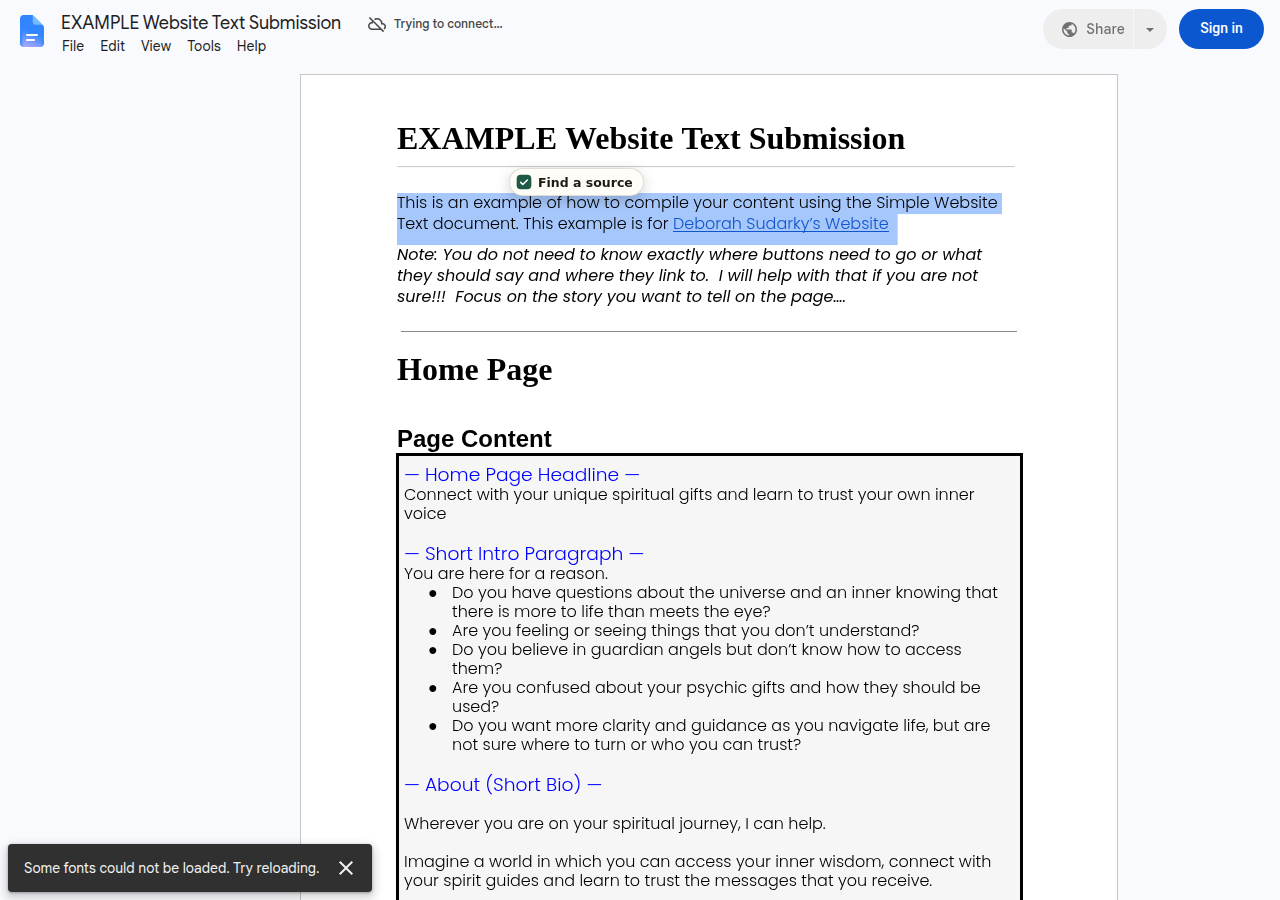
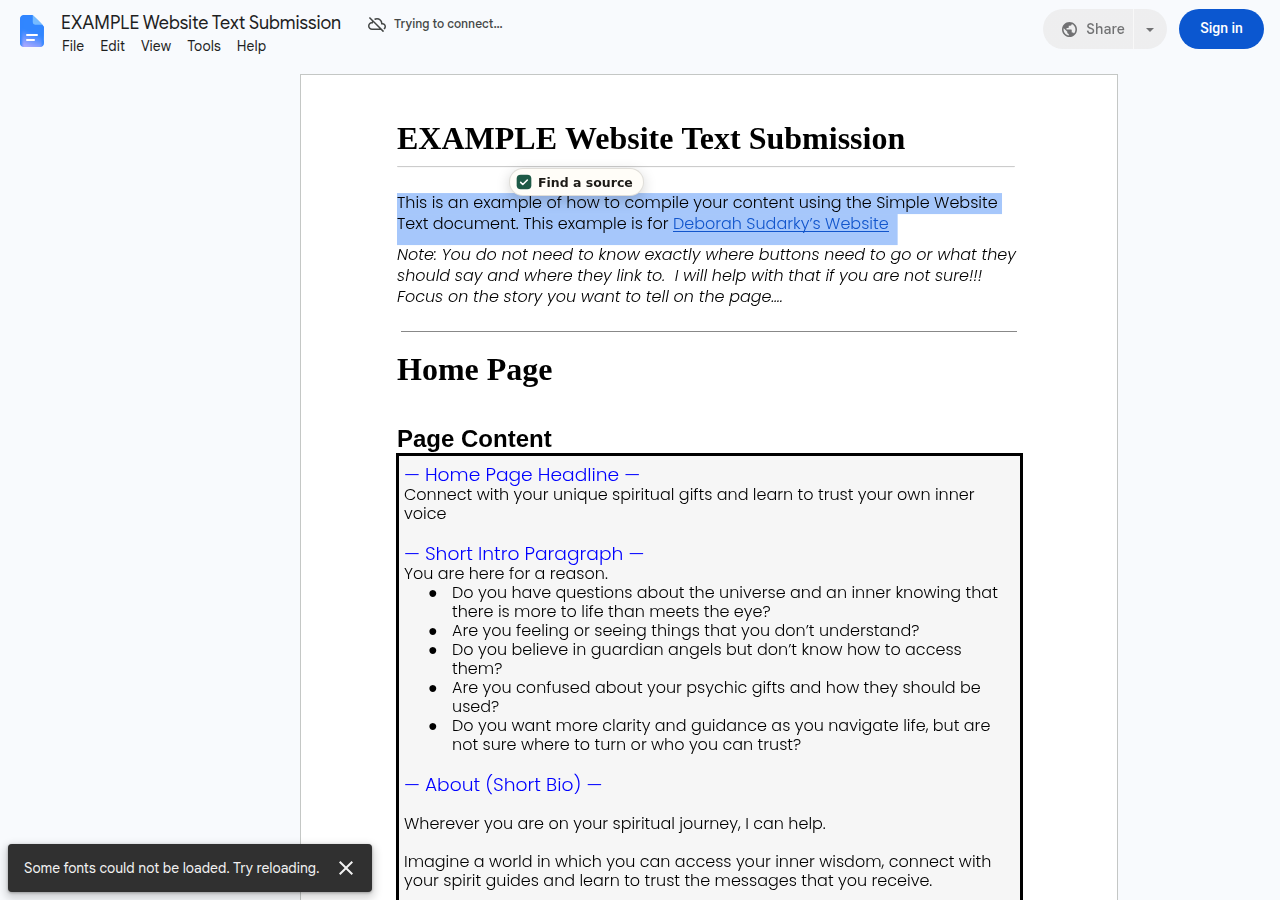
Docs edit mode: show the highlight button without relying on mouse events
Google Docs in edit mode cancels pointerdown, so the browser never
sends mouseup and the Find a source button never appeared.
- Listen for pointerup as well as mouseup (window, capture), handling
  the pair from one click once.
- In Docs, poll the hidden selection (400 ms, focused tab only) so the
  button appears however the text was selected, and hides when the
  selection clears; fall back to a fixed spot if Docs' caret isn't found.
- Hide on scroll only when the page actually moved.
- Version 0.2.0 so the update is easy to confirm in chrome://extensions.

Claude-Session: https://claude.ai/code/session_01REKGazpN4nHgJsq7f1CCEn

Changed region(s): [[0.3125, 0.28, 0.7812, 0.3422]]

diff --git a/src/content/main.ts b/src/content/main.ts
@@ -200,6 +200,14 @@ export function installBacked(): BackedUi {
     buttonEl = null;
   }
 
+  /** Window scroll plus the Docs editor's own scroll container, as one number. */
+  function scrollPositions(): number {
+    const editor = IS_GOOGLE_DOCS ? document.querySelector('.kix-appview-editor') : null;
+    return window.scrollY + window.scrollX + (editor ? editor.scrollTop + editor.scrollLeft : 0);
+  }
+  let buttonScroll = 0;
+  let lastPointer: { x: number; y: number; at: number } | null = null;
+
   function showButton(sel: PageSelection, mouse: { x: number; y: number } | null) {
     hideButton();
     mount();
@@ -235,6 +243,7 @@ export function installBacked(): BackedUi {
     btn.append(svgIcon(), document.createTextNode('Find a source'));
     // Keep the page's selection when the button is pressed.
     btn.addEventListener('mousedown', (e) => e.preventDefault());
+    btn.addEventListener('pointerdown', (e) => e.stopPropagation());
     btn.addEventListener('click', (e) => {
       e.preventDefault();
       e.stopPropagation();
@@ -245,6 +254,7 @@ export function installBacked(): BackedUi {
     });
     root.appendChild(btn);
     buttonEl = btn;
+    buttonScroll = scrollPositions();
     buttonClaim = sel.text;
     buttonAnchor = sel.box ?? sel.end;
     requestAnimationFrame(() => {
@@ -324,7 +334,7 @@ export function installBacked(): BackedUi {
   };
 
   // Docs fills its hidden selection a moment after mouseup/keyup: look a few times.
-  const DOCS_RETRIES = [40, 120, 300];
+  const DOCS_RETRIES = [40, 120, 300, 700];
   let docsCheck = 0;
   function checkDocsSelection(mouse: { x: number; y: number } | null, attempt: number) {
     const id = ++docsCheck;
@@ -364,21 +374,51 @@ export function installBacked(): BackedUi {
       }
     });
   }
+  // Safety net for Docs: watch the hidden selection itself, so the button shows up however the
+  // text was selected (mouse, keyboard, double-click, Docs' own menus) even if no event reached us.
+  let polled = '';
+  function pollDocsSelection() {
+    if (retired || frameEl || !buttonEnabled || !document.hasFocus()) return;
+    const text = docsSelectionText();
+    if (text === polled) return;
+    polled = text;
+    if (!isClaimLike(text)) {
+      if (buttonEl && !text.trim()) hideButton();
+      return;
+    }
+    if (buttonEl && buttonClaim === text) return;
+    if (orphaned()) return;
+    const recent = lastPointer && Date.now() - lastPointer.at < 3000 ? lastPointer : null;
+    const caret = docsCaretRect();
+    // Last resort: top of the visible document, centred.
+    const point = recent ?? (caret ? { x: caret.right, y: caret.top } : { x: window.innerWidth / 2, y: 140 });
+    const anchor: Rect | null = point ? { top: point.y - 10, bottom: point.y + 10, left: point.x - 200, right: point.x } : null;
+    lastAnchor = anchor;
+    showButton({ text, end: null, box: anchor, method: 'docs' }, point);
+  }
   if (IS_GOOGLE_DOCS) {
     watchDocsFrame();
     setInterval(watchDocsFrame, 2000);
+    setInterval(pollDocsSelection, 400);
   }
 
-  document.addEventListener(
-    'mouseup',
-    (e) => {
-      if (eventIsOurs(e) || e.button !== 0) return;
-      watchDocsFrame();
-      const mouse = { x: e.clientX, y: e.clientY };
-      setTimeout(() => maybeShowButton(mouse), 0);
-    },
-    true,
-  );
+  // Pointer release. Listen for pointerup as well as mouseup: editors like Google Docs (edit mode)
+  // cancel pointerdown, which stops the browser from sending mouse events at all.
+  let lastRelease = { type: '', at: 0, x: -1, y: -1 };
+  const onRelease = (e: MouseEvent) => {
+    if (eventIsOurs(e) || e.button !== 0) return;
+    const now = Date.now();
+    // The same click arrives as pointerup and then mouseup: handle it once.
+    const sameClick = e.type !== lastRelease.type && now - lastRelease.at < 80 && e.clientX === lastRelease.x && e.clientY === lastRelease.y;
+    lastRelease = { type: e.type, at: now, x: e.clientX, y: e.clientY };
+    if (sameClick) return;
+    watchDocsFrame();
+    lastPointer = { x: e.clientX, y: e.clientY, at: now };
+    const mouse = { x: e.clientX, y: e.clientY };
+    setTimeout(() => maybeShowButton(mouse), 0);
+  };
+  window.addEventListener('pointerup', onRelease, true);
+  window.addEventListener('mouseup', onRelease, true);
   document.addEventListener(
     'keyup',
     (e) => {
@@ -386,19 +426,26 @@ export function installBacked(): BackedUi {
     },
     true,
   );
-  document.addEventListener(
-    'mousedown',
-    (e) => {
-      if (!eventIsOurs(e)) hideButton();
-    },
-    true,
-  );
+  const onPress = (e: Event) => {
+    if (!eventIsOurs(e)) hideButton();
+  };
+  window.addEventListener('pointerdown', onPress, true);
+  window.addEventListener('mousedown', onPress, true);
   document.addEventListener('selectionchange', () => {
     if (IS_GOOGLE_DOCS) return; // Docs never has a DOM selection; its own handlers cover it
     const sel = document.getSelection();
     if (buttonEl && (!sel || sel.isCollapsed) && !(document.activeElement instanceof HTMLTextAreaElement || document.activeElement instanceof HTMLInputElement)) hideButton();
   });
-  window.addEventListener('scroll', () => hideButton(), true);
+  // Hide on scroll only when the page really moved (Docs fires small scroll events on selection).
+  window.addEventListener(
+    'scroll',
+    () => {
+      if (!buttonEl) return;
+      const pos = scrollPositions();
+      if (Math.abs(pos - buttonScroll) > 24) hideButton();
+    },
+    true,
+  );
   window.addEventListener('resize', () => {
     hideButton();
     if (frameWrap) {

diff --git a/tests/content/docs-page.test.ts b/tests/content/docs-page.test.ts
@@ -1,0 +1,51 @@
+// @vitest-environment jsdom
+// @vitest-environment-options { "url": "https://docs.google.com/document/d/abc123/edit" }
+// On a Google Docs page: no DOM selection and (in edit mode) no mouse events at all — the button
+// must still appear, found by watching the hidden selection Docs keeps in its text-input iframe.
+import { beforeAll, describe, expect, it, vi } from 'vitest';
+import type { BackedUi } from '../../src/content/main';
+
+let ui: BackedUi;
+
+beforeAll(async () => {
+  (globalThis as unknown as { chrome: unknown }).chrome = {
+    runtime: {
+      id: 'ext-id',
+      getURL: (p: string) => `chrome-extension://ext-id/${p}`,
+      sendMessage: vi.fn(async () => ({ token: 'f'.repeat(32) })),
+      onMessage: { addListener: () => undefined },
+    },
+    storage: { local: { get: async () => ({}) }, onChanged: { addListener: () => undefined } },
+  };
+  if (!('requestAnimationFrame' in window)) (window as unknown as { requestAnimationFrame: (f: () => void) => number }).requestAnimationFrame = (f) => setTimeout(f, 0) as unknown as number;
+  document.hasFocus = () => true;
+  document.body.innerHTML = '<div class="kix-appview-editor"><div class="kix-cursor-caret"></div></div><iframe class="docs-texteventtarget-iframe"></iframe>';
+  const mod = await import('../../src/content/main');
+  ui = mod.backedUi()!;
+});
+
+function docsSelect(text: string): void {
+  const frame = document.querySelector('iframe')!;
+  const fdoc = frame.contentDocument!;
+  fdoc.body.innerHTML = `<div contenteditable="true" id="e">${text}</div>`;
+  const range = fdoc.createRange();
+  range.selectNodeContents(fdoc.getElementById('e')!);
+  const sel = frame.contentWindow!.getSelection()!;
+  sel.removeAllRanges();
+  sel.addRange(range);
+}
+
+describe('Google Docs page', () => {
+  it('shows the button from the hidden selection without any mouse or pointer event', async () => {
+    expect(location.hostname).toBe('docs.google.com');
+    docsSelect('Congress can prevent an economic disaster by creating government regulations');
+    await new Promise((r) => setTimeout(r, 900)); // two polling ticks
+    expect(ui.button()?.textContent).toBe('Find a source');
+  });
+
+  it('hides it again when the selection goes away', async () => {
+    docsSelect('');
+    await new Promise((r) => setTimeout(r, 900));
+    expect(ui.button()).toBeNull();
+  });
+});

diff --git a/tests/content/main.test.ts b/tests/content/main.test.ts
@@ -83,6 +83,14 @@ describe('Find a source button', () => {
     expect(ui.button()).toBeNull();
   });
 
+  it('also appears when the page cancels mouse events and only pointer events arrive', async () => {
+    select('Minimum wage hikes do not cost jobs.');
+    const PE = (window as unknown as { PointerEvent?: typeof MouseEvent }).PointerEvent ?? MouseEvent;
+    window.dispatchEvent(new PE('pointerup', { bubbles: true, clientX: 80, clientY: 90, button: 0 }));
+    await new Promise((r) => setTimeout(r, 5));
+    expect(ui.button()?.textContent).toBe('Find a source');
+  });
+
   it('hides on Escape and on clicking elsewhere; Escape also closes the popup', async () => {
     select('Minimum wage hikes do not cost jobs.');
     await mouseUp();
